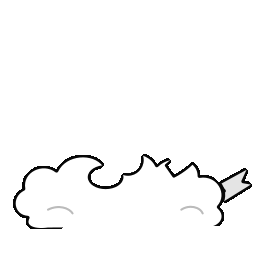
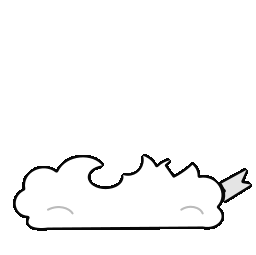
float-cat: complete the bottom bolts and stop layer seams showing while the cat moves
The source picture is cut at its bottom edge, so the bottom-left bolt lost its tip;
draw both tips in on a taller (256x268) bolt layer. The cloud now keeps its whole
bottom outline instead of leaving slivers in the bolt and body layers, the body drops
leftovers around the cloud's edges, and the fill under moving parts is the outline
colour, so a tilt only uncovers what looks like a slightly thicker outline.

Changed region(s): [[0.125, 0.8784, 0.8438, 0.9059]]

diff --git a/config/float-cat/shell.qml b/config/float-cat/shell.qml
@@ -403,11 +403,11 @@ ShellRoot {
 
                     Layer { name: "l-cloud" }
                     Layer {
-                        id: boltB1; name: "l-boltB1"
+                        id: boltB1; name: "l-boltB1"; height: 268
                         transform: Scale { id: boltB1S; origin.x: 77; origin.y: 228; yScale: 1; xScale: 1 }
                     }
                     Layer {
-                        id: boltB2; name: "l-boltB2"
+                        id: boltB2; name: "l-boltB2"; height: 268
                         transform: Scale { id: boltB2S; origin.x: 183; origin.y: 228; yScale: 1; xScale: 1 }
                     }
                 }
